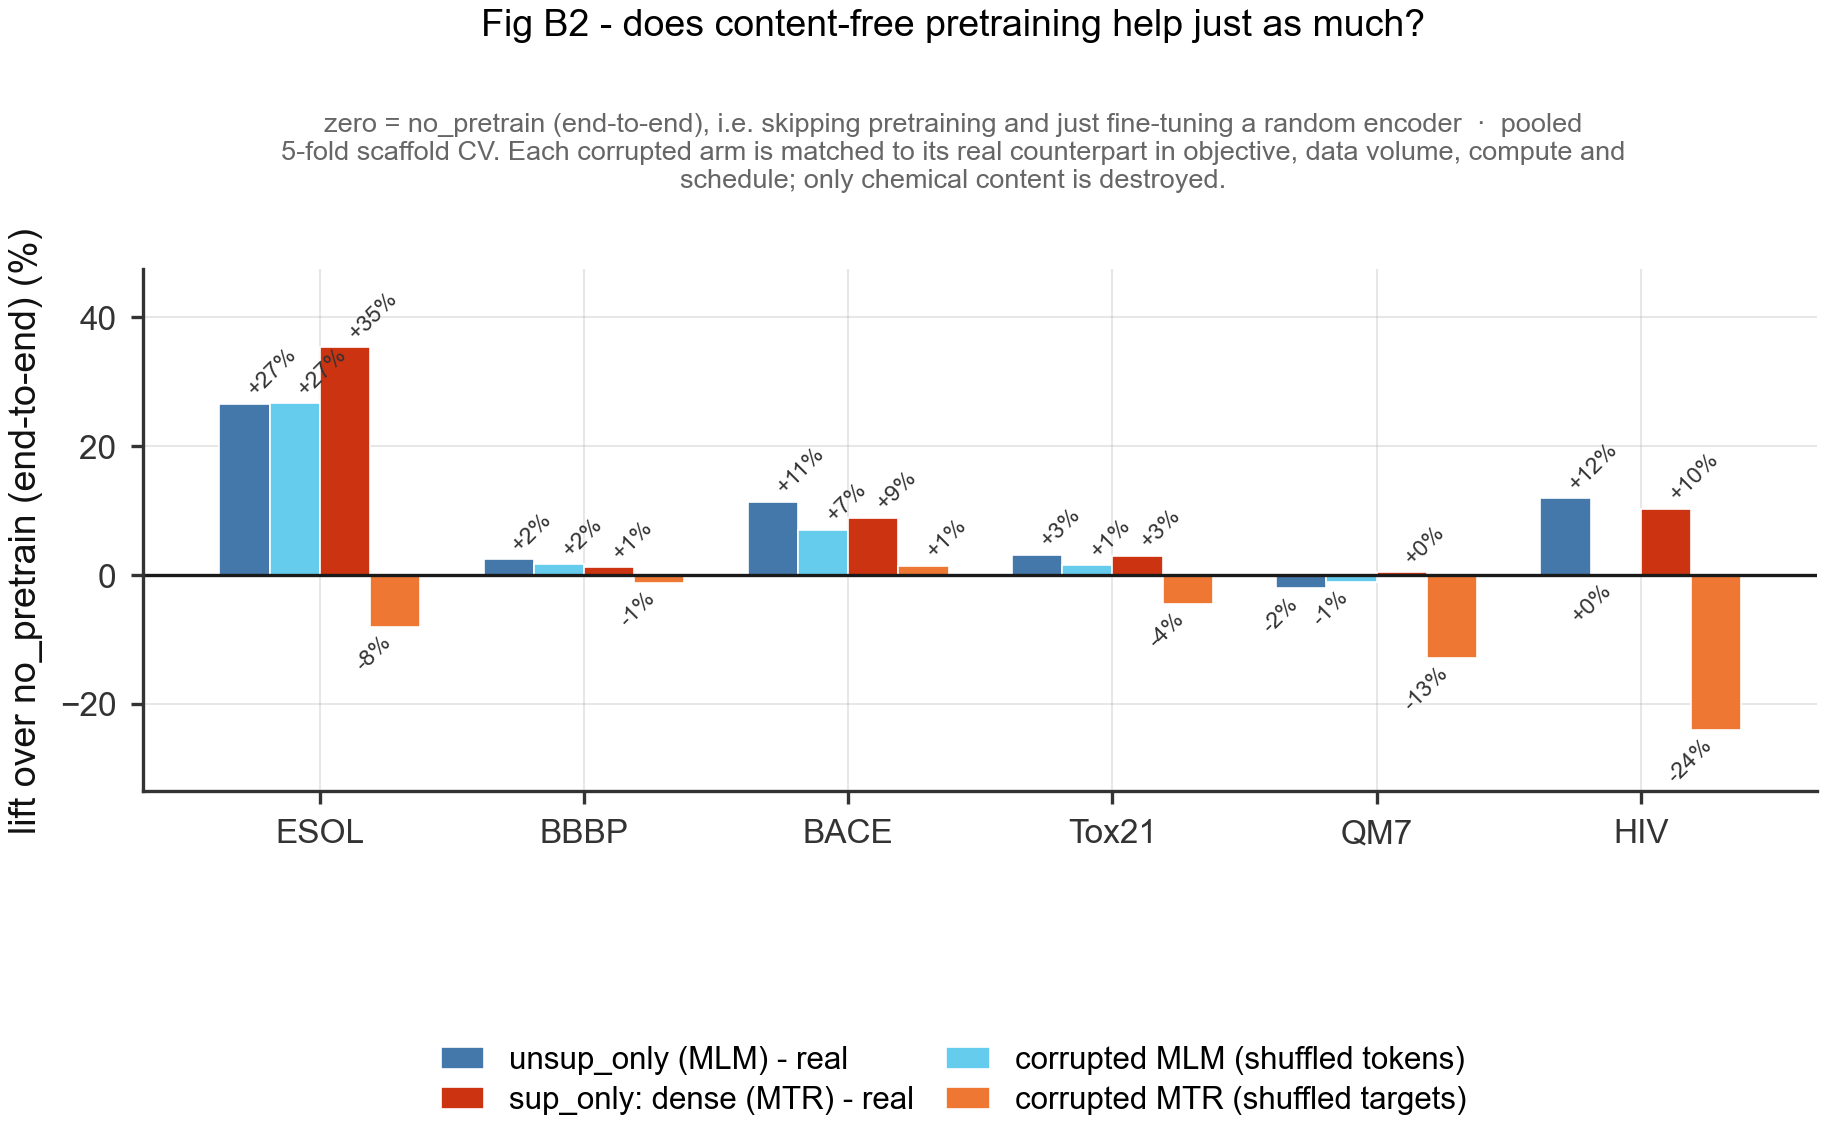
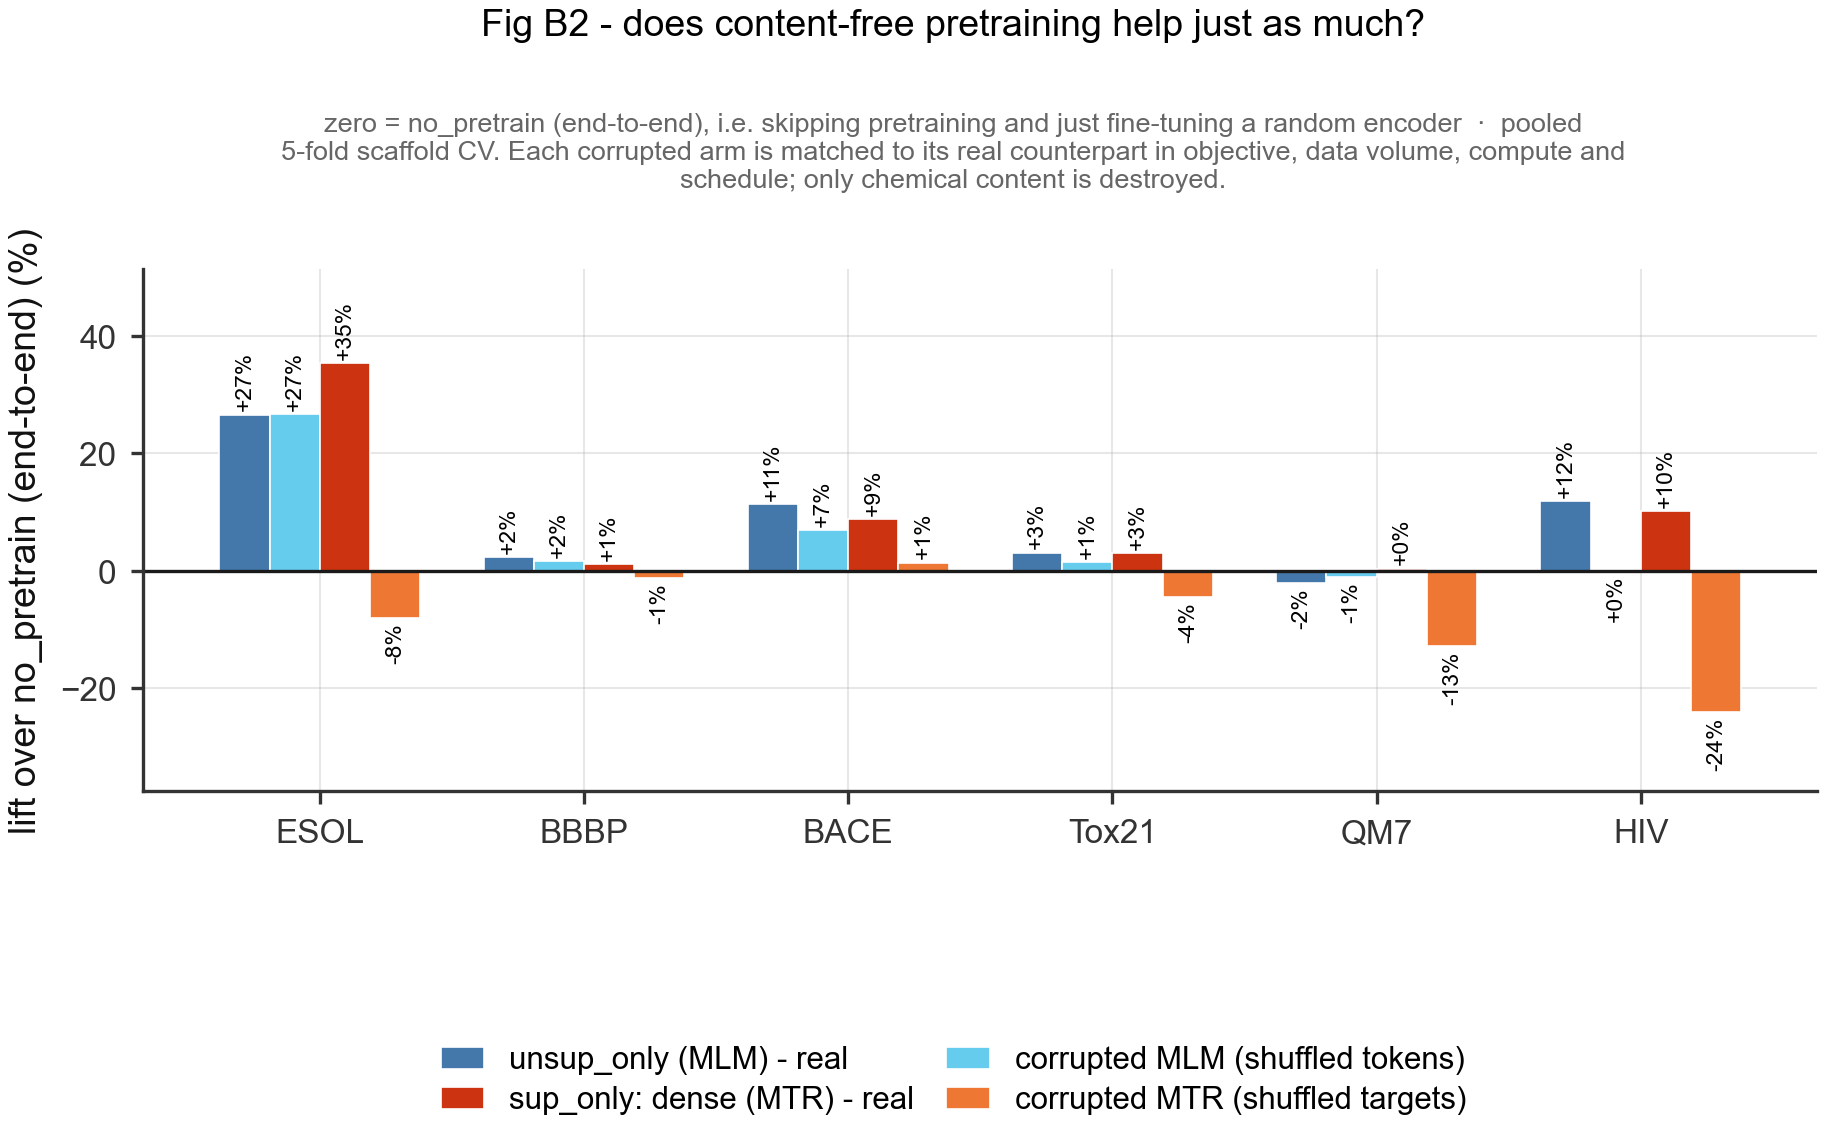
B2: black vertical value labels, so none can reach a neighbouring bar
The +27% on ESOL's corrupted-MLM bar was bleeding onto the +35% bar beside it. Cause is geometric:
45-degree text extends up AND to the right, so a label's horizontal reach grows with its own
length. Rotated to 90 degrees and centred on the bar instead -- vertical text has zero horizontal
extent, so no label can touch a neighbour whatever the numbers turn out to be. Fixing the geometry
rather than nudging the one label that collided today, since the collision moves when the data
does. Font is now black rather than dark grey, and the y-limits gained a little more headroom
because vertical labels are taller than rotated ones.

diff --git a/notebook_cells/18.py b/notebook_cells/18.py
@@ -35,15 +35,19 @@ for i,(key,lab,c) in enumerate(B2_SERIES):
     ys=[100*lift(arm_value(B2_DF,t,key),t,b2_floor(t)) for t in CORE_TASKS]
     ax.bar(x+(i-1.5)*w,ys,width=w,color=c,edgecolor="white",lw=0.4,label=lab)
     # Value on every bar. Four bars per task at this width are hard to read off the axis, and the
-    # interesting comparisons here are between adjacent bars (real vs corrupted), where a couple of
-    # points either way changes the conclusion. Rotated 45 deg so 24 labels fit without collisions;
-    # anchored at the bar END and flipped for negatives so a label never sits across its own bar.
+    # interesting comparisons are between ADJACENT bars (real vs corrupted), where a couple of
+    # points either way changes the conclusion.
+    # Vertical (90 deg), centred on the bar, rather than 45 deg: at 45 deg the text extends up and
+    # to the RIGHT, so a tall label ran across its neighbour -- ESOL's +27% bled onto the +35% bar
+    # next to it. Vertical text has zero horizontal extent, so no label can ever reach a
+    # neighbouring bar whatever the numbers turn out to be. Fixing the geometry rather than nudging
+    # the one label that collided today, since the collision moves when the data does.
     for _xi,_v in zip(x+(i-1.5)*w,ys):
         if not np.isfinite(_v): continue
         _lbl=f"{0.0 if abs(_v)<0.5 else _v:+.0f}%"          # avoid a stray "-0%"
-        ax.text(_xi,_v+(0.7 if _v>=0 else -0.7),_lbl,rotation=45,
-                ha="left" if _v>=0 else "right", va="bottom" if _v>=0 else "top",
-                fontsize=STYLE["fs_annot"]-1.5,color="#333333",clip_on=False)
+        ax.text(_xi,_v+(0.7 if _v>=0 else -0.7),_lbl,rotation=90,ha="center",
+                va="bottom" if _v>=0 else "top",
+                fontsize=STYLE["fs_annot"]-1.5,color="black",clip_on=False)
 ax.axhline(0,color=PALETTE["black"],lw=0.8)
 # "Skip pretraining and just fine-tune" is the reference that makes the corrupted/real contrast
 # actionable: a corrupted arm that clears no_pretrain but not this one has bought nothing real.
@@ -55,7 +59,7 @@ ax.tick_params(axis="x", which="minor", bottom=False)
 ax.set_ylabel(f"lift over {B2_FLOOR_LABEL} (%)"); label_all_yticks(ax)
 # Headroom for the rotated labels at both extremes, or the tallest/deepest ones are clipped.
 _lo,_hi=ax.get_ylim(); _sp=_hi-_lo
-ax.set_ylim(_lo-0.10*_sp,_hi+0.14*_sp)
+ax.set_ylim(_lo-0.16*_sp,_hi+0.20*_sp)   # vertical labels are taller than rotated ones
 if not _have_b2:
     ax.text(0.5,1.02,"CORRUPTED ARMS NOT YET AVAILABLE — corrupt_mlm_8M / corrupt_mtr_8M still training",
             transform=ax.transAxes,ha="center",va="bottom",fontsize=STYLE["fs_annot"],
